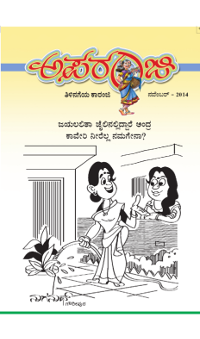
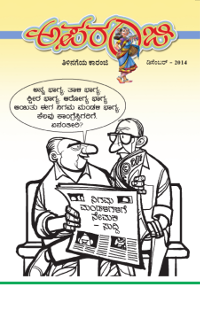
Commit No. 18 Updated December issue

diff --git a/index.php b/index.php
@@ -67,7 +67,7 @@ session_start();
 			$currentmonth=$row['month'];
 			
 			echo "<div class=\"holder\">";
-			echo "<div class=\"holder_title\"><img src=\"php/images/theme.png\" alt=\"Theme Image\"/><a href=\"Volumes/".$currentyear."_".$currentmonth.".pdf#page=1\" target=\"_blank\">".$month[$currentmonth-1]." ".$currentyear."</a></div>";
+			echo "<div class=\"holder_title\"><img src=\"php/images/theme.png\" alt=\"Theme Image\"/>&nbsp;<a href=\"Volumes/".$currentyear."_".$currentmonth.".pdf#page=1\" target=\"_blank\">".$month[$currentmonth-1]." ".$currentyear."</a></div>";
 			echo "<div class=\"holder_area\">";
 			$result=mysql_query("select * from article where volume = $volume and issue= $issue ");
 			$num_rows=	mysql_num_rows($result);

diff --git a/php/currentissue.php b/php/currentissue.php
@@ -8,7 +8,7 @@
 	$currentmonth=$row['month'];
 	
 	echo "<div class=\"holder\">";
-	echo "<div class=\"holder_title\"><img src=\"../php/images/theme.png\" alt=\"Theme Image\"/><a href=\"../Volumes/".$currentyear."_".$currentmonth.".pdf#page=1\" target=\"_blank\">".$month[$currentmonth-1]." ".$currentyear."</a></div>";
+	echo "<div class=\"holder_title\"><img src=\"../php/images/theme.png\" alt=\"Theme Image\"/>&nbsp;<a href=\"../Volumes/".$currentyear."_".$currentmonth.".pdf#page=1\" target=\"_blank\">".$month[$currentmonth-1]." ".$currentyear."</a></div>";
 	echo "<div class=\"holder_area\">";
 	$result=mysql_query("select * from article where volume = $volume and issue= $issue ");
 	$num_rows=	mysql_num_rows($result);

diff --git a/php/connect_db.php b/php/connect_db.php
@@ -4,7 +4,7 @@
 	$pwd="mysql";
 	$db="apr";
 	$volume='32';
-	$issue='02';
+	$issue='03';
 	
 	$db_con=mysql_connect("$host","$usr","$pwd");
 	mysql_select_db("$db",$db_con);
